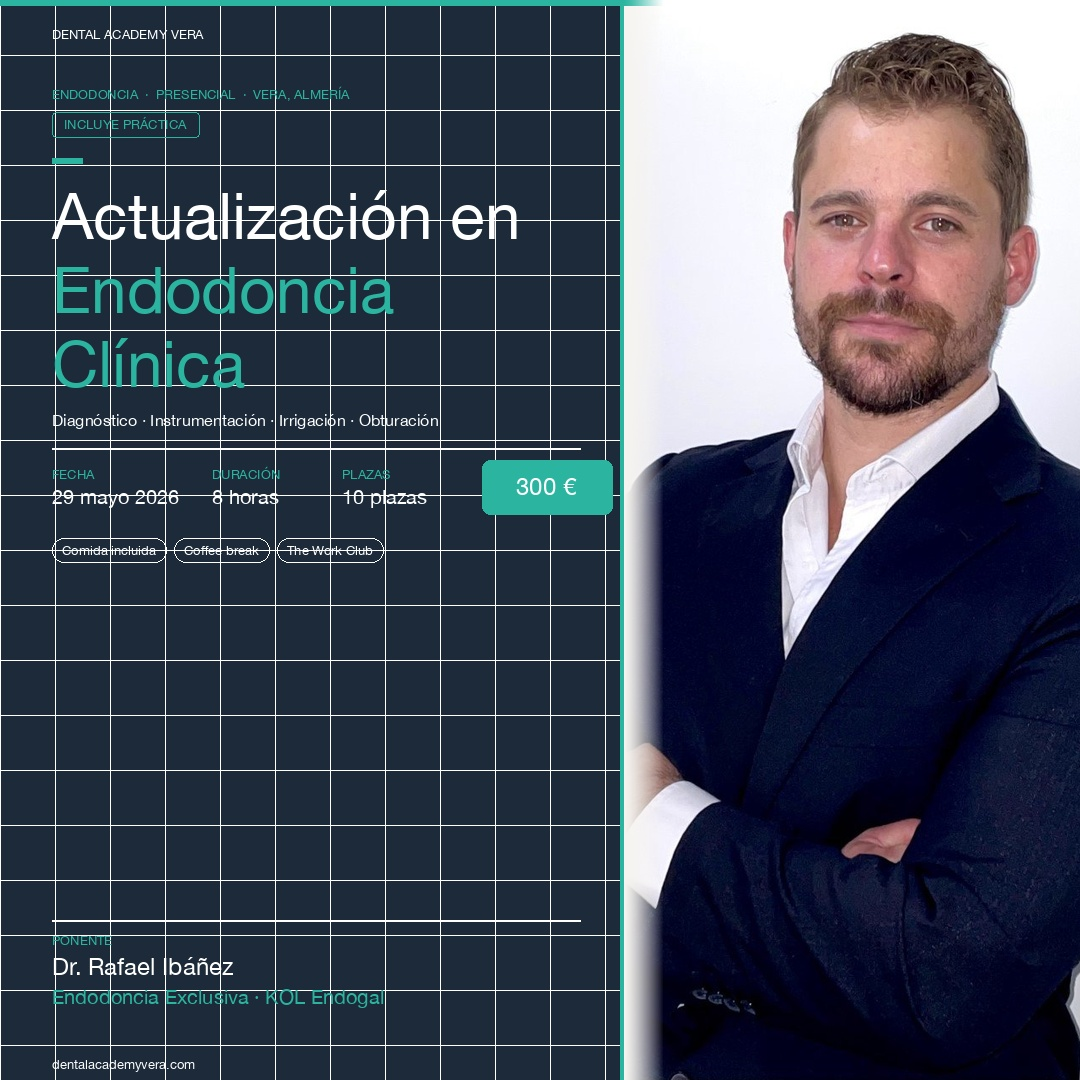
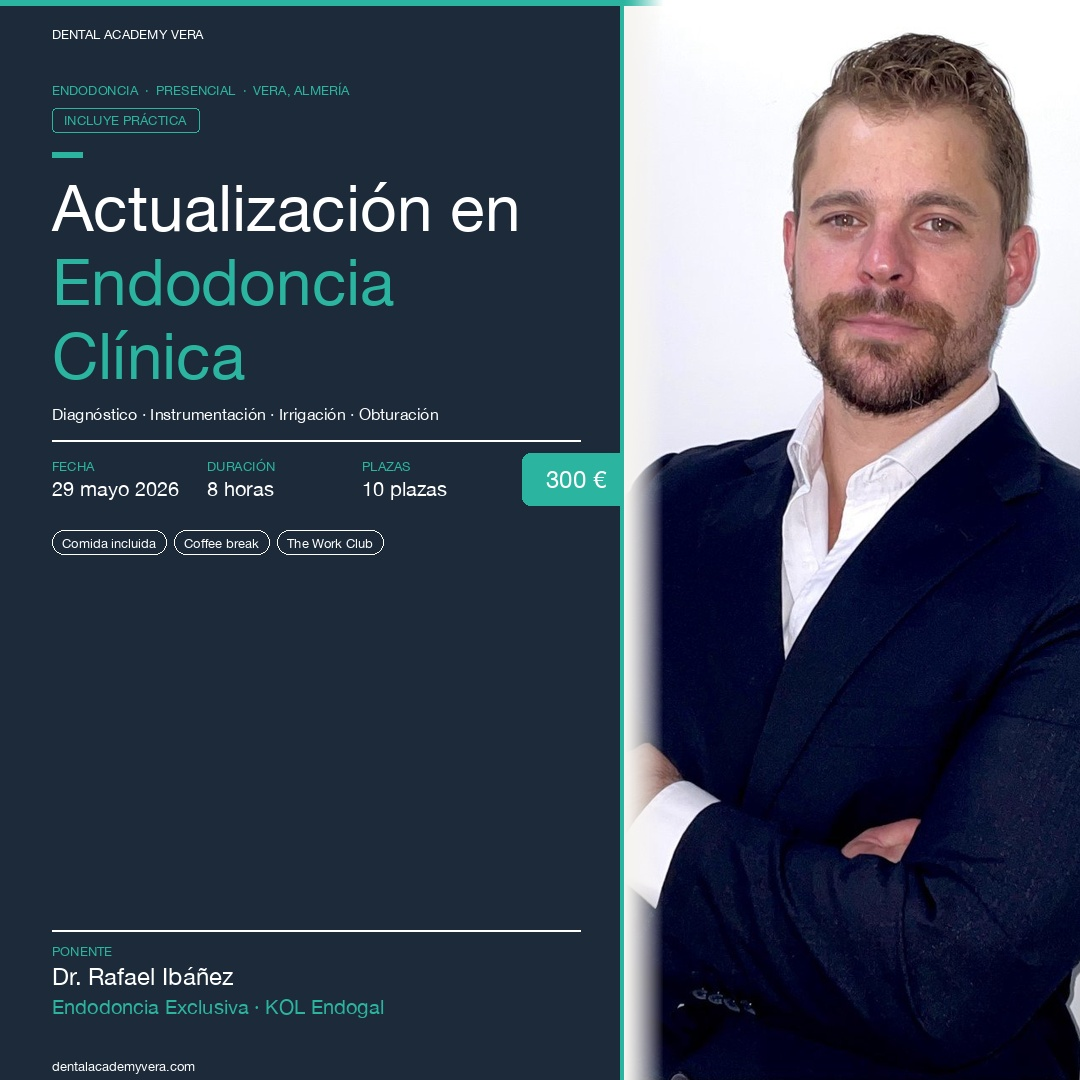
Clean share images and light bg for all professor photos
- Share images: remove grid pattern, solid navy background for legible text
- professors.ts: revert imageUrl to original jpg (natural light background)
- Professors.tsx + ProfessorCard: container bg navy → cream (#f0eeea)
- Avatar: regenerated from original photo preserving light background

diff --git a/components/Professors.tsx b/components/Professors.tsx
@@ -26,7 +26,7 @@ export default function Professors() {
 
           {/* Left: Photo */}
           <AnimateOnScroll>
-            <div className="relative min-h-[440px] lg:min-h-[600px] bg-navy-deep overflow-hidden">
+            <div className="relative min-h-[440px] lg:min-h-[600px] bg-[#f0eeea] overflow-hidden">
               {professor.imageUrl ? (
                 <>
                   <Image
@@ -36,8 +36,8 @@ export default function Professors() {
                     className="object-cover object-top"
                     sizes="(max-width: 1024px) 100vw, 40vw"
                   />
-                  <div className="absolute inset-0 bg-gradient-to-r from-transparent via-transparent to-navy-deep/40 hidden lg:block pointer-events-none" />
-                  <div className="absolute inset-0 bg-gradient-to-b from-transparent via-transparent to-navy-deep/55 lg:hidden pointer-events-none" />
+                  <div className="absolute inset-0 bg-gradient-to-r from-transparent via-transparent to-[#f0eeea]/50 hidden lg:block pointer-events-none" />
+                  <div className="absolute inset-0 bg-gradient-to-b from-transparent via-transparent to-[#f0eeea]/60 lg:hidden pointer-events-none" />
                 </>
               ) : (
                 <div className="w-full h-full flex items-center justify-center">

diff --git a/app/cursos/[id]/page.tsx b/app/cursos/[id]/page.tsx
@@ -409,7 +409,7 @@ function ProfessorCard({
   return (
     <div className="bg-white border border-gray-200 rounded-xl overflow-hidden shadow-sm">
       {professor.imageUrl && (
-        <div className="relative h-52 overflow-hidden bg-navy-deep">
+        <div className="relative h-52 overflow-hidden bg-[#f0eeea]">
           <Image
             src={professor.imageUrl}
             alt={professor.name}
@@ -417,7 +417,7 @@ function ProfessorCard({
             className="object-cover object-top"
             sizes="360px"
           />
-          <div className="absolute inset-0 bg-gradient-to-t from-navy-deep/60 via-transparent to-transparent" />
+          <div className="absolute inset-0 bg-gradient-to-t from-[#f0eeea]/40 via-transparent to-transparent" />
         </div>
       )}
       <div className="p-6">

diff --git a/lib/data/professors.ts b/lib/data/professors.ts
@@ -26,7 +26,7 @@ export const professors: Professor[] = [
         ],
       },
     ],
-    imageUrl: '/images/professors/rafael-ibanez-nobg.png',
+    imageUrl: '/images/professors/rafael-ibanez.jpg',
     avatarUrl: '/images/professors/rafael-ibanez-avatar.png',
   },
 ]
